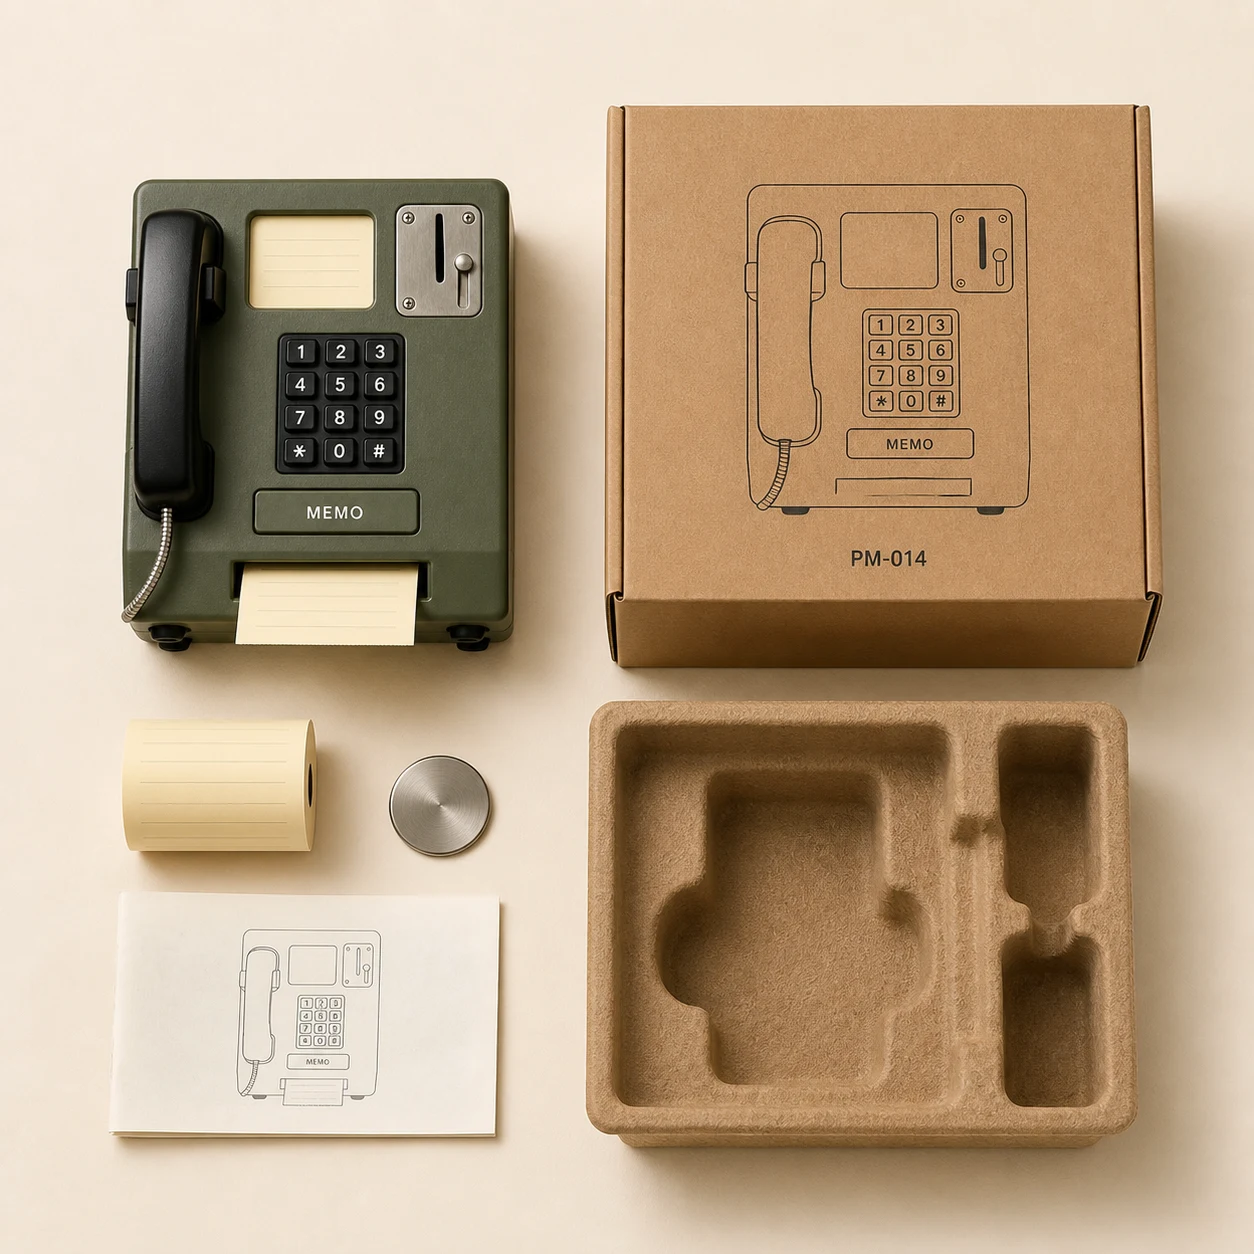
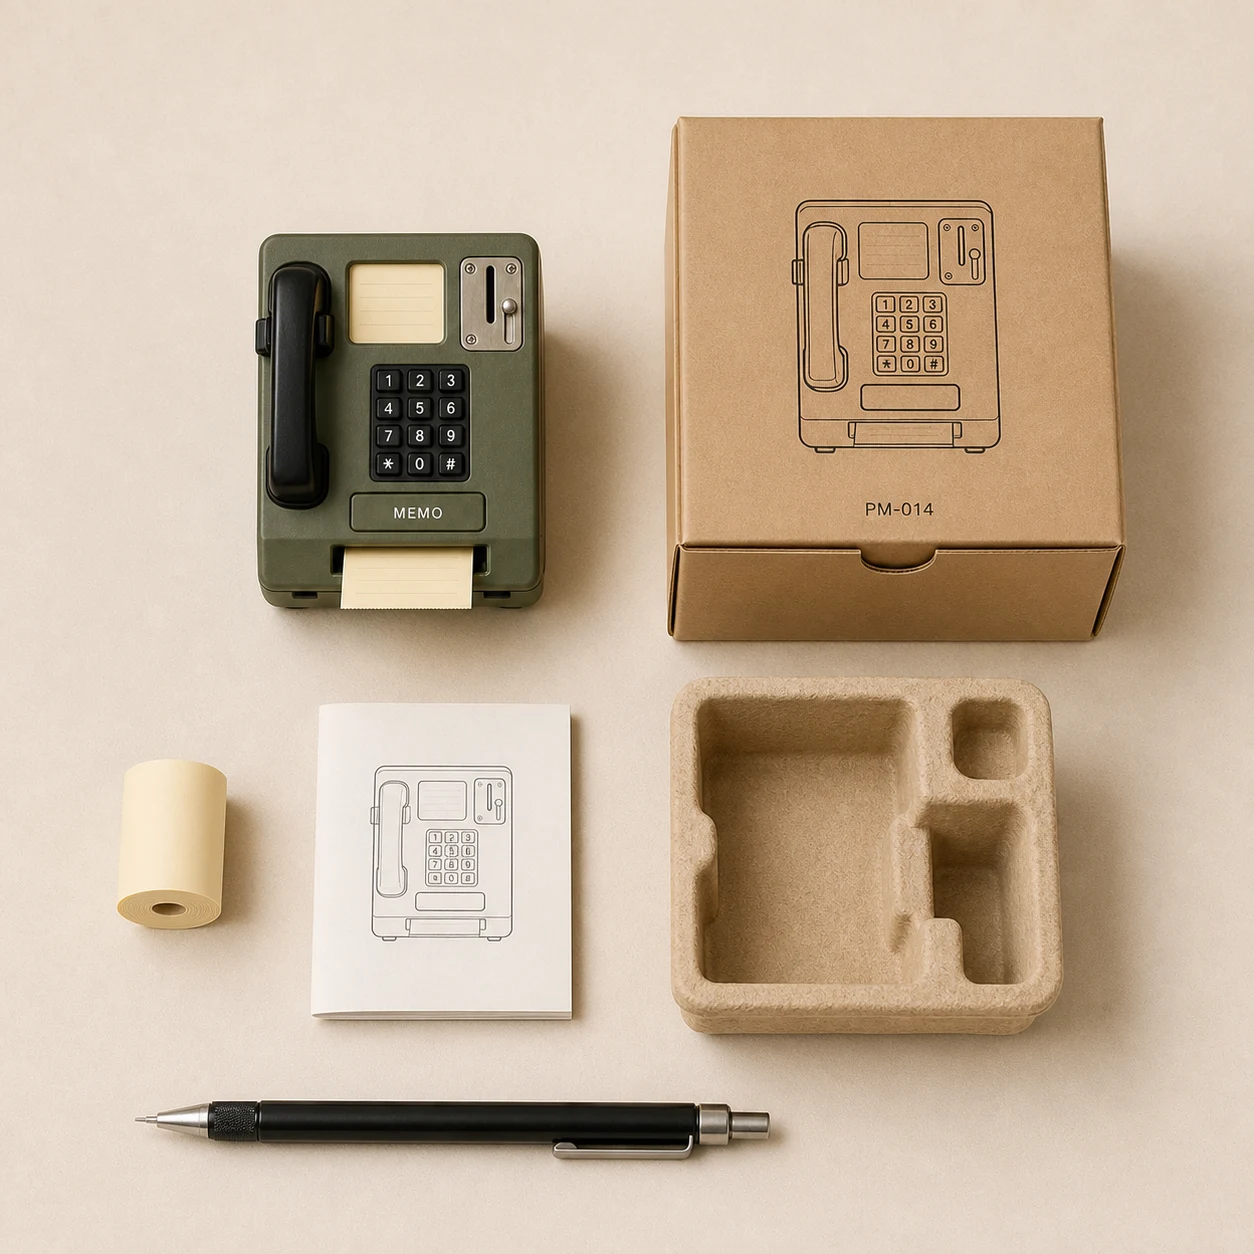
Resize PM-014 for realistic desk scale

diff --git a/src/catalog.js b/src/catalog.js
@@ -553,32 +553,32 @@ const publicPhoneMemoDispenser = {
   image: `${imageRoot}/pm-014-public-phone-memo-dispenser/01-hero.webp`,
   accent: '#5f6548',
   href: '/objects/pm-014',
-  alt: '올리브색 공중전화 형태의 본체와 전용 MEMO 버튼, 하단 메모 배출구를 결합한 디스펜서 렌더',
+  alt: '한 손바닥 위에 올라가는 올리브색 미니 공중전화 형태의 메모 디스펜서 렌더',
   category: 'Stationery Tool',
   variant: 'Mechanical Ratchet Feed',
-  intro: 'A payphone-shaped desk dispenser that advances one preprinted memo from a compact paper roll whenever its dedicated MEMO button is pressed.',
-  introKo: '전용 MEMO 버튼을 한 번 누를 때마다 작은 롤에서 미리 인쇄된 메모 한 장 길이를 내보내는 공중전화형 데스크 문구 콘셉트입니다.',
+  intro: 'A palm-sized payphone memo dispenser that fits a compact paper roll and advances one small note whenever its dedicated MEMO lever is pressed.',
+  introKo: '손바닥 크기 본체 안에 작은 롤을 넣고 전용 MEMO 레버를 누를 때마다 짧은 메모 한 장을 내보내는 공중전화형 문구 콘셉트입니다.',
   statement: ['Press once.', 'Take one note.'],
   story: [
-    'The message window, handset, metal coin plate, and keypad preserve the memory of a public phone, while one wide MEMO key performs the practical action. The numeric keys remain tactile visual references rather than pretending to control a printer.',
+    'A 102 × 128 × 62 mm body keeps the message window, miniature handset, coin plate, and keypad recognizable without becoming a desktop appliance. The numeric keys remain tactile visual references rather than pretending to control a printer.',
     'Pressing the MEMO key drives a short rack and one-way ratchet that turns two silicone feed rollers. One memo length advances without power, then tears by hand against a recessed serrated edge.',
   ],
   notes: [
-    ['Dedicated memo key', 'One wide key concentrates the operating force and avoids suggesting that every number triggers a different electronic function.'],
-    ['Ratchet feed', 'A spring-return rack, one-way clutch, and silicone rollers translate one press into a repeatable 80–100 mm paper advance.'],
-    ['Compact roll refill', 'A single 57 mm-wide roll with an outer diameter below roughly 55 mm slides onto the side axle behind a latched refill door.'],
+    ['Palm-sized body', 'At roughly 102 × 128 × 62 mm, the object stays smaller than an A6 notebook while leaving room for its roll and mechanism.'],
+    ['Ratchet feed', 'A 15 mm spring-return lever, one-way clutch, and silicone rollers translate one press into a repeatable 60 mm paper advance.'],
+    ['Compact roll refill', 'A single 48 mm-wide roll with an outer diameter below roughly 40 mm slides onto the side axle behind a latched refill door.'],
     ['Next test', 'A working prototype should tune button force, feed distance, roller pressure, paper perforation, tear-edge safety, and door-latch tolerance.'],
   ],
   gallery: [
-    ['hero', '01-hero.webp', '올리브색 공중전화 형태와 전용 MEMO 버튼, 한 장의 메모가 나온 하단 배출구를 보여주는 대표 렌더', 'Hero view'],
-    ['press-and-feed', '02-press-and-feed.webp', '손가락으로 전용 MEMO 버튼을 눌러 하단에서 메모 한 장 길이를 내보내는 사용 렌더', 'Press and feed'],
-    ['mechanical-cutaway', '03-mechanical-cutaway.webp', '내부의 메모 롤과 실리콘 급지 롤러, 래칫 기어, 스프링 구조를 보여주는 절개 렌더', 'Mechanical cutaway'],
-    ['roll-refill', '04-roll-refill.webp', '측면 리필 도어를 열고 가로축에 57밀리미터 메모 롤 한 개를 끼우는 렌더', 'Roll refill'],
+    ['hero', '01-hero.webp', '연필과 비교해 한 손바닥 위에 올라가는 크기를 보여주는 올리브색 미니 공중전화 메모 디스펜서 대표 렌더', 'Hero view'],
+    ['press-and-feed', '02-press-and-feed.webp', '연필보다 짧은 미니 본체의 MEMO 레버를 눌러 48밀리미터 폭 메모 한 장을 내보내는 사용 렌더', 'Press and feed'],
+    ['mechanical-cutaway', '03-mechanical-cutaway.webp', '손바닥 크기 본체 안에 들어간 40밀리미터 롤과 실리콘 급지 롤러, 래칫 기어를 보여주는 절개 렌더', 'Mechanical cutaway'],
+    ['roll-refill', '04-roll-refill.webp', '한 손에 올린 본체의 측면 도어를 열고 가로축에 폭 48밀리미터 메모 롤 한 개를 끼우는 렌더', 'Roll refill'],
     ['tear-off-detail', '05-tear-off-detail.webp', '보호 턱 안쪽의 미세 톱니 절취선으로 메모 한 장을 손으로 떼는 디테일 렌더', 'Tear-off detail'],
-    ['memo-refills', '06-memo-refills.webp', '크림, 세이지, 블루, 핑크 색상의 줄 메모와 체크, 도트, 무지 리필 롤 구성 렌더', 'Memo refill set'],
-    ['variant-lineup', '07-color-lineup.webp', '올리브, 크림 베이지, 브릭 레드, 차콜 색상의 공중전화 메모 디스펜서 네 가지 렌더', 'Color lineup'],
-    ['worn-lifestyle', '08-everyday-use.webp', '플래너와 펜이 놓인 책상에서 메모를 한 장 떼어 사용하는 일상 장면', 'Everyday use'],
-    ['packaging', '09-packaging.webp', '공중전화 메모 디스펜서와 리필 롤, 금속 토큰, 설명서, 성형 펄프 트레이로 구성한 패키지 렌더', 'Packaging concept'],
+    ['memo-refills', '06-memo-refills.webp', '연필과 비교한 크림, 세이지, 블루, 핑크 색상의 48밀리미터 소형 메모 리필 구성 렌더', 'Memo refill set'],
+    ['variant-lineup', '07-color-lineup.webp', '연필보다 짧은 올리브, 크림 베이지, 브릭 레드, 차콜 미니 디스펜서 네 가지 렌더', 'Color lineup'],
+    ['worn-lifestyle', '08-everyday-use.webp', 'A6 플래너와 연필, 작은 잔 옆에 놓인 손바닥 크기 메모 디스펜서의 일상 장면', 'Everyday use'],
+    ['packaging', '09-packaging.webp', '손바닥 크기 디스펜서와 소형 리필 롤, 설명서, 작은 성형 펄프 트레이로 구성한 패키지 렌더', 'Packaging concept'],
   ].map(([role, file, alt, label]) => ({
     role,
     src: `${imageRoot}/pm-014-public-phone-memo-dispenser/${file}`,

diff --git a/src/koreanCopy.js b/src/koreanCopy.js
@@ -185,13 +185,13 @@ export const objectCopyKo = {
     category: '문구 도구',
     statement: ['한 번 누르고,', '메모 한 장을.'],
     story: [
-      '메시지 창과 수화기, 금속 동전 투입부, 숫자 키패드는 공중전화의 기억을 남기고 넓은 MEMO 버튼 하나가 실제 기능을 맡습니다. 숫자 버튼은 전자 프린터를 조작하는 척하지 않고 촉각적인 조형 요소로 유지합니다.',
+      '102 × 128 × 62mm의 작은 본체 안에서 메시지 창과 미니 수화기, 금속 동전 투입부, 숫자 키패드가 공중전화의 기억을 남깁니다. 숫자 버튼은 전자 프린터를 조작하는 척하지 않고 촉각적인 조형 요소로 유지합니다.',
       'MEMO 버튼을 누르면 짧은 랙과 한 방향 래칫이 실리콘 급지 롤러 두 개를 돌립니다. 전기 없이 메모 한 장 길이가 나오고, 보호 턱 안쪽의 미세 톱니에 손으로 떼어 사용합니다.',
     ],
     notes: [
-      ['전용 메모 버튼', '넓은 버튼 하나에 작동 힘을 모아 숫자마다 다른 전자 기능이 있는 것처럼 보이지 않게 합니다.'],
-      ['래칫 급지', '스프링 복귀 랙과 한 방향 클러치, 실리콘 롤러가 한 번의 누름을 80~100mm의 일정한 종이 이동으로 바꿉니다.'],
-      ['작은 롤 리필', '폭 57mm, 외경 약 55mm 이하의 롤 한 개를 잠금식 측면 도어 안쪽 가로축에 끼웁니다.'],
+      ['손바닥 크기', '약 102 × 128 × 62mm로 A6 노트보다 작지만 내부 롤과 급지 구조가 들어갈 공간은 남깁니다.'],
+      ['래칫 급지', '15mm 스프링 복귀 레버와 한 방향 클러치, 실리콘 롤러가 한 번의 누름을 60mm의 일정한 종이 이동으로 바꿉니다.'],
+      ['작은 롤 리필', '폭 48mm, 외경 약 40mm 이하의 롤 한 개를 잠금식 측면 도어 안쪽 가로축에 끼웁니다.'],
       ['다음 테스트', '작동 시제품으로 버튼 압력, 급지 길이, 롤러 압착력, 종이 절취선, 절단부 안전, 도어 잠금 공차를 조정해야 합니다.'],
     ],
   },
